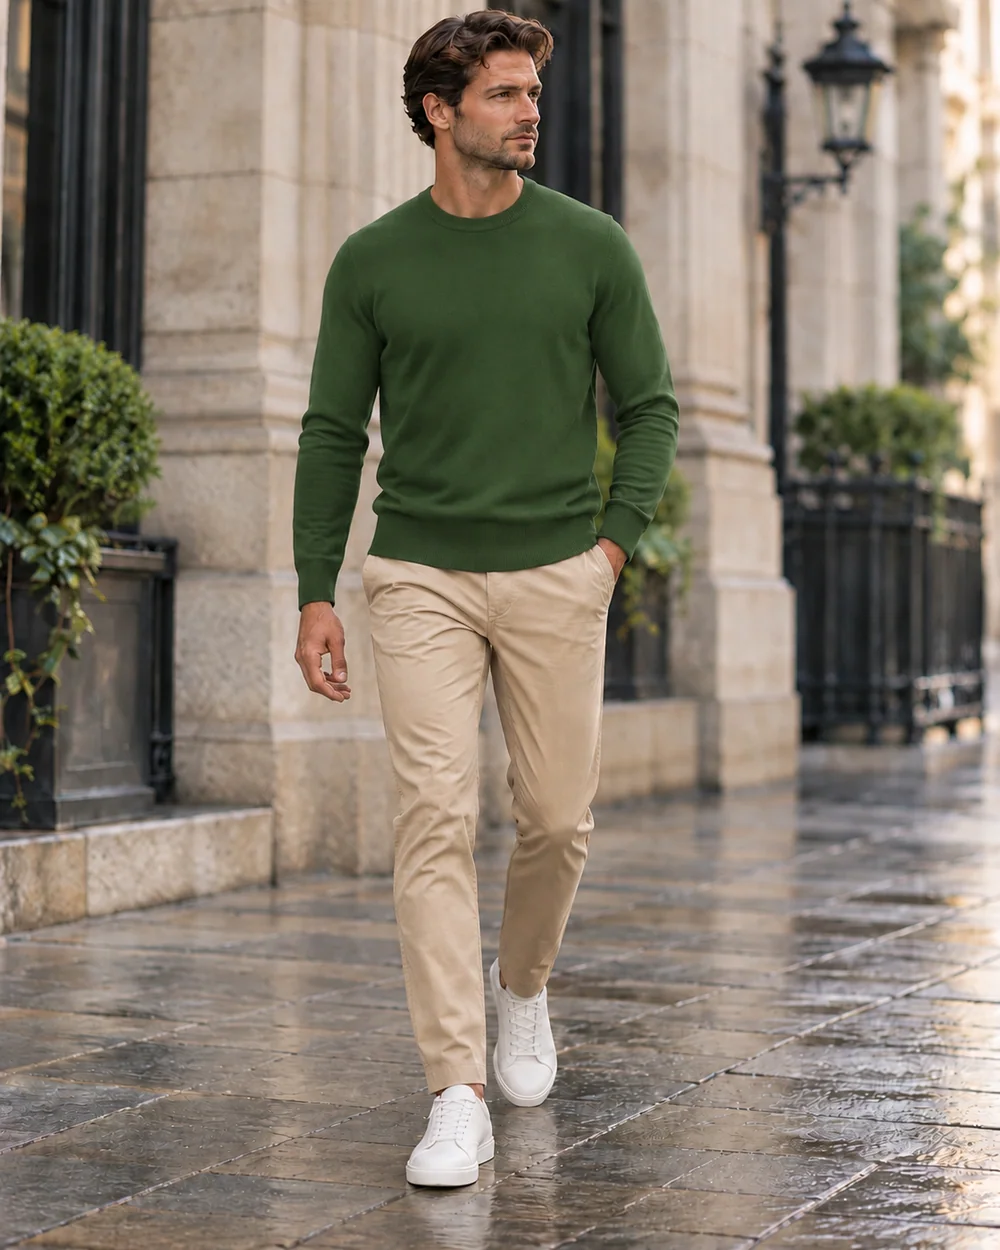
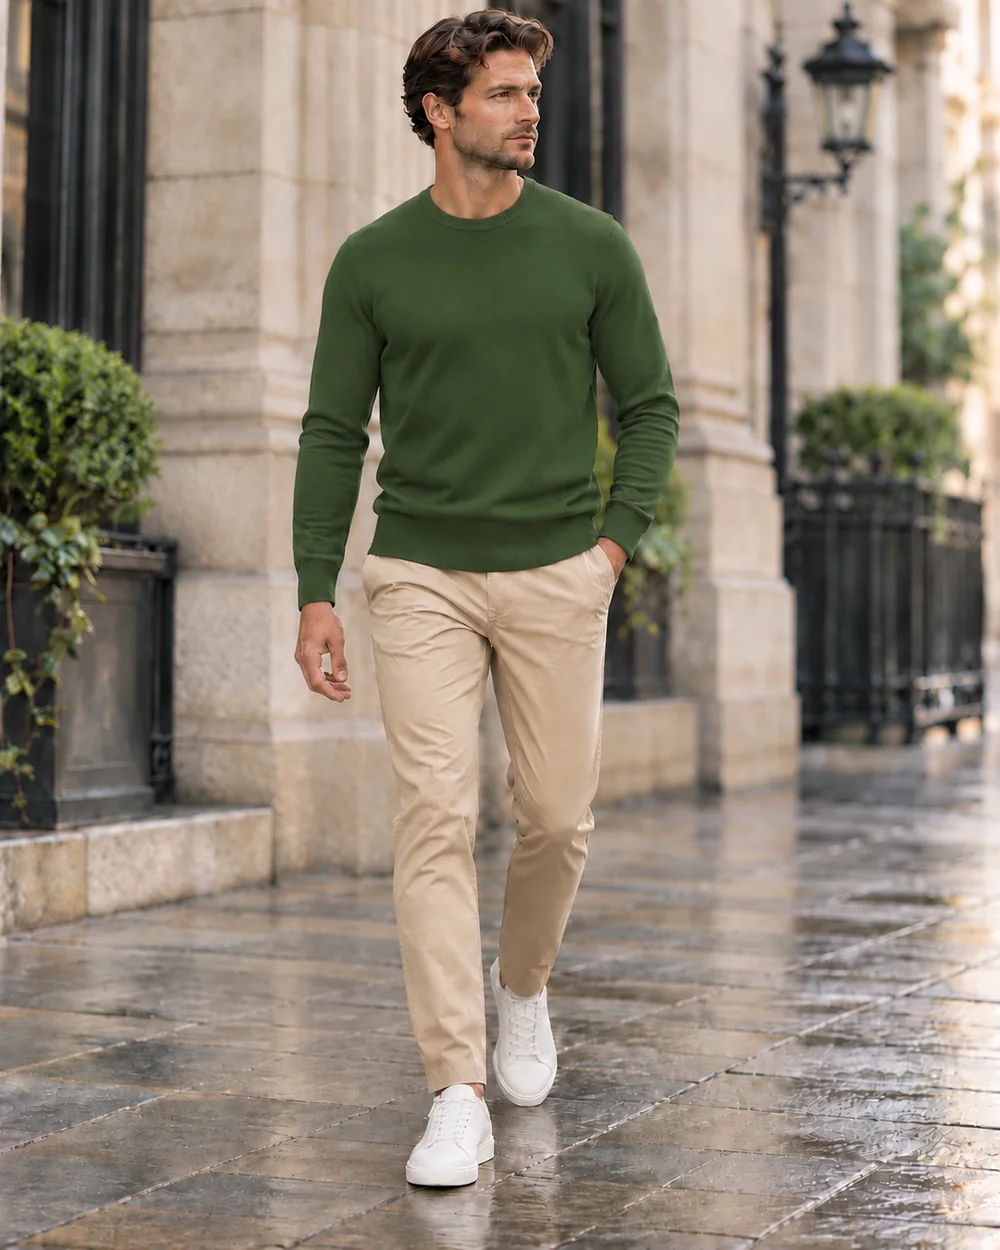
Update the Christmas green crewneck photos

diff --git a/data-catalog.js b/data-catalog.js
@@ -234,7 +234,7 @@ families:[
 ,{id:'family-look-207',name:'Blue gingham shirt + navy chinos',hero:'look-207',looks:['look-207']}
 ],
 looks:[
-{id:'look-dark-green-crewneck-beige-chinos',family:'family-dark-green-crewneck-beige-chinos',name:'Christmas green crewneck + beige chinos + white leather sneakers',image:'assets/look-dark-green-crewneck-beige-chinos.webp?v=2',formal:2,badges:['Weekend','Travel'],pieces:['dark-green-crewneck-sweater','beige-chinos','white-leather-sneakers']},
+{id:'look-dark-green-crewneck-beige-chinos',family:'family-dark-green-crewneck-beige-chinos',name:'Christmas green crewneck + beige chinos + white leather sneakers',image:'assets/look-dark-green-crewneck-beige-chinos.webp?v=3',formal:2,badges:['Weekend','Travel'],pieces:['dark-green-crewneck-sweater','beige-chinos','white-leather-sneakers']},
 {"id":"look-navy-wool-cream-knit-blue-denim","family":"family-navy-wool-cream-knit-blue-denim","name":"Navy wool shirt jacket + cream crewneck + blue jeans","image":"assets/look-navy-wool-cream-knit-blue-denim.webp?v=1","formal":2,"badges":["Weekend","Travel"],"pieces":["navy-wool-shirt-jacket","cream-crewneck-sweater","blue-denim","white-leather-sneakers"]},
 {"id":"look-brown-quarterzip-dark-denim","family":"family-brown-quarterzip-dark-denim","name":"Brown quarter-zip + white T-shirt + dark denim","image":"assets/look-brown-quarterzip-dark-denim.webp?v=1","formal":2,"badges":["Weekend","Travel"],"pieces":["brown-knit-quarterzip","white-tee","dark-denim","white-leather-sneakers"]},
 {"id":"look-navy-vest-cream-knit-brown-chelsea","family":"family-navy-vest-cream-turtleneck-dark-denim","name":"Navy quilted vest + cream turtleneck + brown Chelsea boots","image":"assets/look-navy-vest-cream-knit-brown-chelsea.webp?v=1","formal":2,"badges":["Weekend","Dinner"],"pieces":["owned-md-navy-quilted-vest","cream-cable-knit-turtleneck","dark-denim","brown-chelsea"]},

diff --git a/fits-pipeline.js b/fits-pipeline.js
@@ -3,7 +3,7 @@
    Add, remove, reorder or cache-bump a data step here only, never in a page.
 
    Pages load it as the first script in <body>, then their own UI scripts:
-     <script src="fits-pipeline.js?v=20"></script>
+     <script src="fits-pipeline.js?v=21"></script>
    Cloudflare caches it for 4 hours, so bump that ?v= in every page whenever this file changes.
    document.write keeps the steps parser-blocking and in order, before the page's own scripts
    and before DOMContentLoaded, exactly like the static <script> tags it replaces.
@@ -12,7 +12,7 @@
 (()=>{
   const steps=[
     // Source data: edit records in data-catalog.js and bump its ?v= here
-    'data-catalog.js?v=29',
+    'data-catalog.js?v=30',
     // Wardrobe cleanup
     'wardrobe-canonical-v2.js?v=5',
     'look-aliases.js?v=1',
@@ -41,7 +41,7 @@
     // Garment groups for the Wardrobe and Looks filters (FITS_KINDS)
     'garment-kinds.js?v=4',
     // Piece image maps (window.FITS_CATALOG_IMAGES)
-    'catalog-images.js?v=2','catalog-batch2.js?v=2','catalog-batch3.js?v=2','catalog-v4.js?v=16'
+    'catalog-images.js?v=2','catalog-batch2.js?v=2','catalog-batch3.js?v=2','catalog-v4.js?v=17'
   ];
   window.FITS_PIPELINE=steps;
   if(typeof document!=='undefined'&&typeof document.write==='function')

diff --git a/inspiration-lab.html b/inspiration-lab.html
@@ -51,7 +51,7 @@ nav a{color:#cdd2d5;font-size:12px;text-decoration:none}nav a.active{color:white
 <section id="savedView" class="hidden"><h1>My versions</h1><p class="subtle">Saved combinations, independent from original looks.</p><div id="savedList"></div></section>
 <nav><a href="#" data-screen="browse" class="active">✦ Inspiration</a><a href="#" data-screen="savedView">♡ My versions</a><a href="wardrobe.html">◇ Wardrobe</a><a href="index.html">⌂ FITS Home</a></nav>
 </div>
-<script src="fits-pipeline.js?v=20"></script>
+<script src="fits-pipeline.js?v=21"></script>
 <script src="weather-location-cache.js?v=5"></script>
 <script src="season-filter.js?v=33"></script>
 <script>

diff --git a/wardrobe.html b/wardrobe.html
@@ -19,7 +19,7 @@
 </head>
 <body data-page="wardrobe-v5">
   <div id="root"></div>
-  <script src="fits-pipeline.js?v=20"></script>
+  <script src="fits-pipeline.js?v=21"></script>
   <script>var PIECE_IMAGES=window.PIECE_IMAGES||{};</script>
   <script src="piece-image-overrides.js?v=41"></script>
   <script src="looks-v5-core.js?v=15"></script>

diff --git a/looks.html b/looks.html
@@ -23,7 +23,7 @@
 </head>
 <body data-page="looks-v5">
   <div id="root"></div>
-  <script src="fits-pipeline.js?v=20"></script>
+  <script src="fits-pipeline.js?v=21"></script>
   <script>var PIECE_IMAGES=window.PIECE_IMAGES||{};</script>
   <script src="piece-image-overrides.js?v=41"></script>
   <script src="looks-v5-core.js?v=15"></script>

diff --git a/next-buy.html b/next-buy.html
@@ -19,7 +19,7 @@
 </head>
 <body data-page="next-buy">
   <div id="root"></div>
-  <script src="fits-pipeline.js?v=20"></script>
+  <script src="fits-pipeline.js?v=21"></script>
   <script>var PIECE_IMAGES=window.PIECE_IMAGES||{};</script>
   <script src="piece-image-overrides.js?v=41"></script>
   <script src="looks-v5-core.js?v=15"></script>

diff --git a/piece.html b/piece.html
@@ -19,7 +19,7 @@
 </head>
 <body data-page="piece-v5">
   <div id="root"></div>
-  <script src="fits-pipeline.js?v=20"></script>
+  <script src="fits-pipeline.js?v=21"></script>
   <script>var PIECE_IMAGES=window.PIECE_IMAGES||{};</script>
   <script src="piece-image-overrides.js?v=41"></script>
   <script src="looks-v5-core.js?v=15"></script>

diff --git a/stats.html b/stats.html
@@ -19,7 +19,7 @@
 </head>
 <body data-page="stats-v5">
   <div id="root"></div>
-  <script src="fits-pipeline.js?v=20"></script>
+  <script src="fits-pipeline.js?v=21"></script>
   <script>var PIECE_IMAGES=window.PIECE_IMAGES||{};</script>
   <script src="piece-image-overrides.js?v=41"></script>
   <script src="looks-v5-core.js?v=15"></script>

diff --git a/detail.html b/detail.html
@@ -26,7 +26,7 @@
 </head>
 <body>
   <div id="root"></div>
-  <script src="fits-pipeline.js?v=20"></script>
+  <script src="fits-pipeline.js?v=21"></script>
   <script>window.PIECE_IMAGES=window.FITS_CATALOG_IMAGES||{};</script>
   <script src="piece-image-overrides.js?v=41"></script>
   <script src="detail-v3.js?v=40"></script>

diff --git a/index.html b/index.html
@@ -54,7 +54,7 @@
 </head>
 <body>
   <div id="root"></div>
-  <script src="fits-pipeline.js?v=20"></script>
+  <script src="fits-pipeline.js?v=21"></script>
   <script src="fits-weather.js?v=1"></script>
   <script src="home-v2.js?v=34"></script>
   <script src="weather-location-cache.js?v=5"></script>

diff --git a/catalog-v4.js b/catalog-v4.js
@@ -84,5 +84,5 @@ Object.assign(window.FITS_CATALOG_IMAGES, {
 });
 
 Object.assign(window.FITS_CATALOG_IMAGES, {
-'dark-green-crewneck-sweater':'assets/catalog-dark-green-crewneck-sweater.webp?v=2'
+'dark-green-crewneck-sweater':'assets/catalog-dark-green-crewneck-sweater.webp?v=3'
 });
